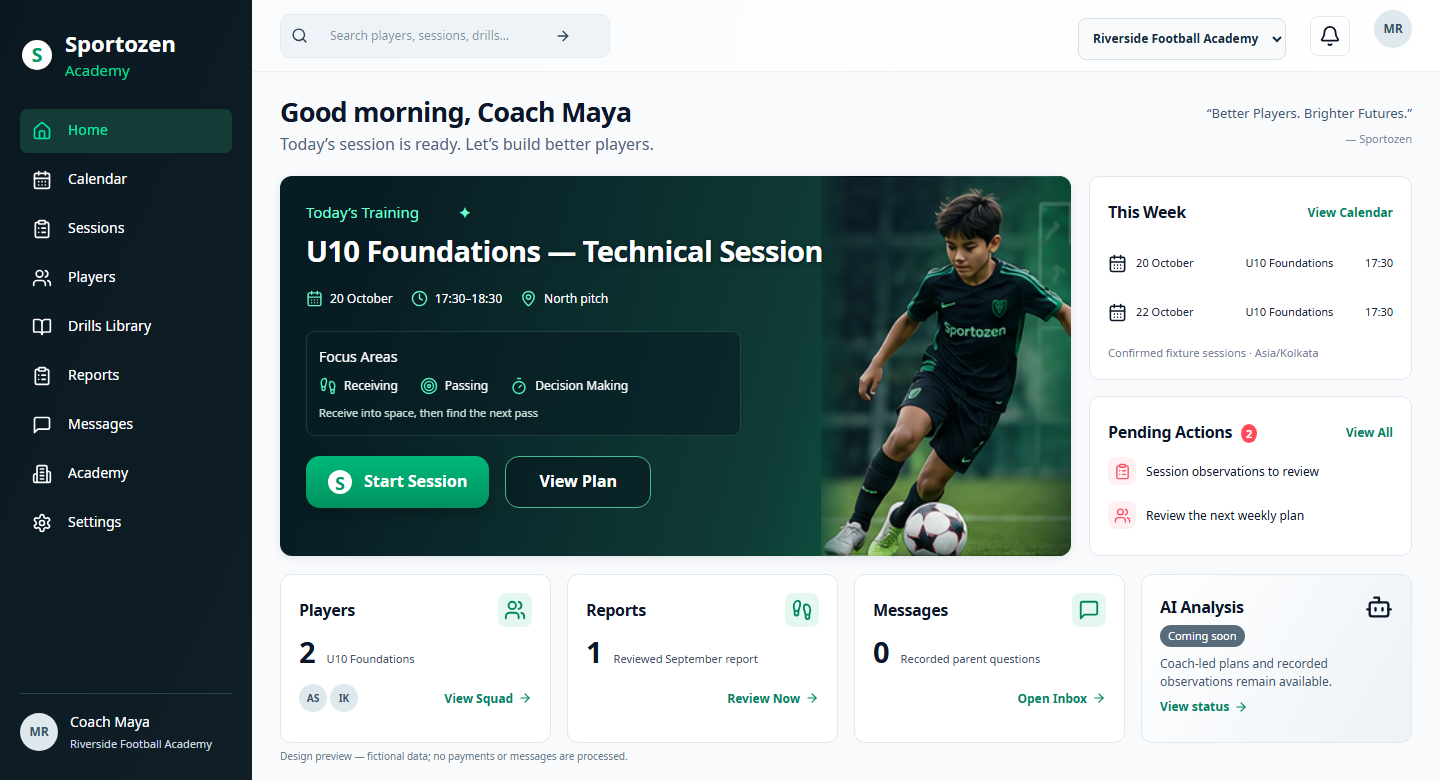
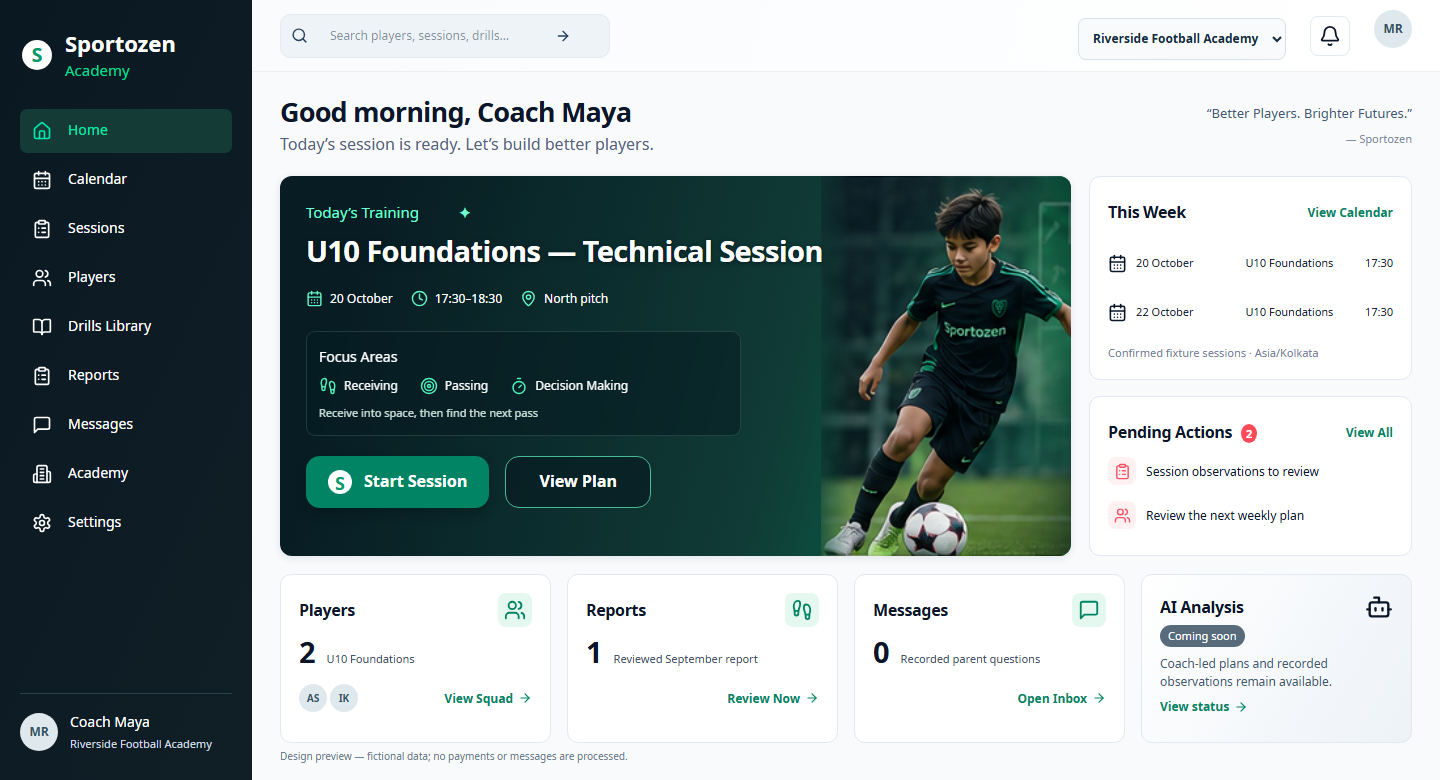
Preserve academy action contrast and record final visual differences

Changed region(s): [[0.1875, 0.5846, 0.3438, 0.6462]]

diff --git a/src/features/design-preview/approved-homes.css b/src/features/design-preview/approved-homes.css
@@ -323,7 +323,7 @@
   gap: 12px;
 }
 .approved-review .ar-start {
-  background: linear-gradient(#00b87b, #00935e);
+  background: var(--ar-accent);
   box-shadow: 0 6px 12px #0003;
 }
 .approved-review .ar-start .ar-logo-mark {

diff --git a/docs/design/visual-correction/README.md b/docs/design/visual-correction/README.md
@@ -21,6 +21,7 @@ The new UI uses real text, links, icons, selects and cards. There is no screensh
 - Noto Sans is retained from the existing licensed local font assets. Reference font metadata was not supplied; weights and hierarchy are matched by visual inspection rather than claiming an exact font match.
 - The handwritten hero slogan is omitted; a separate source font/asset was not provided. The reference's outer presentation captions and device frames are excluded as requested.
 - Parent child selection and the small fictional-preview notice remain for truthful, usable review. Longer source-based focus/update text changes some wrapping and card height. Profile menus provide review controls without a large testing toolbar in the main composition.
+- The primary action uses the existing validated academy accent, preserving academy-specific branding and readable white-label contrast; Riverside's button is darker than the reference's bright gradient.
 - AI Analysis remains Coming soon. There are no new live payment or WhatsApp states.
 
 ## Figma
